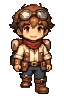
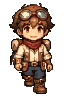
art: rework male walk (S + E) after owner motion feedback
Clearer stride, arm swing and weight transfer; f0 identical to the
approved sprites; 12/12 TECH-PASS, halo 0. Motion reference kept out of Git.

Changed region(s): [[0.1875, 0.5938, 0.7812, 1.0], [0.6875, 0.6562, 0.8438, 0.75]]

diff --git a/docs/tasks/ART-003-G04.md b/docs/tasks/ART-003-G04.md
@@ -20,3 +20,15 @@ Base: approved GATE 02 sprites (D019), GATE 03 layers (`assets/characters/traine
 - `assets/characters/trainer/anim_src/walk/male/s_f0..5.png`; preview `walk_m_s_pilot_4x.gif` (110 ms per frame, dark background). Six frames, all TECH-PASS, halo 0, 47 colours.
 - Motion: the feet alternate contact on y=93, the knee bends on the down frames, the body bobs 1 px and the arms swing slightly. Codex notes a slightly "marching" cadence and a subtle arm swing.
 - Note: f0 differs from the current approved S sprite in 382 px, because the pilot began before the second halo clean-up and the layer updates. Rebase the frames on the current sprite before splitting into layers.
+
+## Owner feedback on the pilot (2026-11-26): "not natural enough"
+The owner supplied a commercial farm-sim base sprite sheet as a MOTION reference. It is copyrighted: keep it out of Git (local copy only, `build/motion-ref/`), never trace or copy pixels. Use only these principles, noted by Claude Code:
+- Front/back walk: the stepping leg reads as a clearly longer, lower leg with the boot planted; the other leg lifts so its boot is shorter/partly hidden; on passing frames the body rises 1 px and the legs are together.
+- Side walk: a real stride. In profile the legs open into a visible V on contact frames (front heel down, back toe pushing), close on passing frames, and the body rises on passing.
+- Arms swing opposite to the legs with a clear arc, 2–4 px at the hands, not a 1 px nudge. The reference animates arms as a separate layer per frame, which fits our modular `top`/`gloves` slots.
+- Head and hair follow the body bob; nothing else floats.
+- Timing: contact frames read longest; avoid equal-height "marching".
+
+## Walk v2 (2026-11-26, Codex gpt-6.2-sol, after owner motion feedback)
+- Male S and E, 6 frames each (`s_f0..5`, `e_f0..5`), f0 byte-identical to the current approved sprites; all 12 TECH-PASS, halo 0. Timing 130/100/110/130/100/110 ms. GIFs: `walk_m_s_v2_4x.gif`, `walk_m_e_v2_4x.gif` (dark background).
+- E: clear V stride on f1/f3, heel down / toe push, arm swing, pack follows the body. S: clearer weight transfer and arm swing than the pilot, but it is still a little stiff because of the bulky boots. Claude review: the trailing boot in E f5 looks slightly cluttered; polish it during the full pass.

diff --git a/docs/HANDOFF.md b/docs/HANDOFF.md
@@ -15,7 +15,7 @@ Active task: **ART-003-G01 — Trainer Character Master (GATE 01)**, docs/tasks/
 - GATE 03 phase 2 done (pending owner review): `*_full` layers for base_body/hair/top/bottom; verify-full 0 problems; skin-swap test images are in `assets/characters/trainer/metadata/`.
 - 2026-11-26: the owner reported the missing backpack in male W/E; Codex added it (+159/+164 px), all checks pass.
 - Owner approved GATE 03 and started GATE 04 (2026-11-26). Idle is built by `tools/asset-pipeline/animate.py idle` (4 frames, all layers; pending review). Walk pilot (male S, 6 frames) assigned to Codex; see docs/tasks/ART-003-G04.md.
-- Walk pilot delivered: `assets/characters/trainer/anim_src/walk/male/` (6 frames + GIF), all checks pass, pending owner review; it must be rebased on the post-halo sprite.
+- Walk v2 (male S + E) delivered after owner motion feedback: `assets/characters/trainer/anim_src/walk/male/`, all checks pass, pending owner review. The owner's motion reference is a commercial sprite sheet: it is kept only in `build/motion-ref/` (not in Git) and is never traced.
 - Next action: owner reviews the idle GIFs and the walk pilot; then walk for all 16 directions, labelled and split like GATE 03. Codex runs via `%LOCALAPPDATA%/OpenAI/Codex/bin/<hash>/codex.exe exec -m gpt-6.2-sol -s workspace-write`; tell it to use `C:\Program Files\Python38\python.exe`, which has Pillow.
 
 ## White-speck QA (mandatory)
